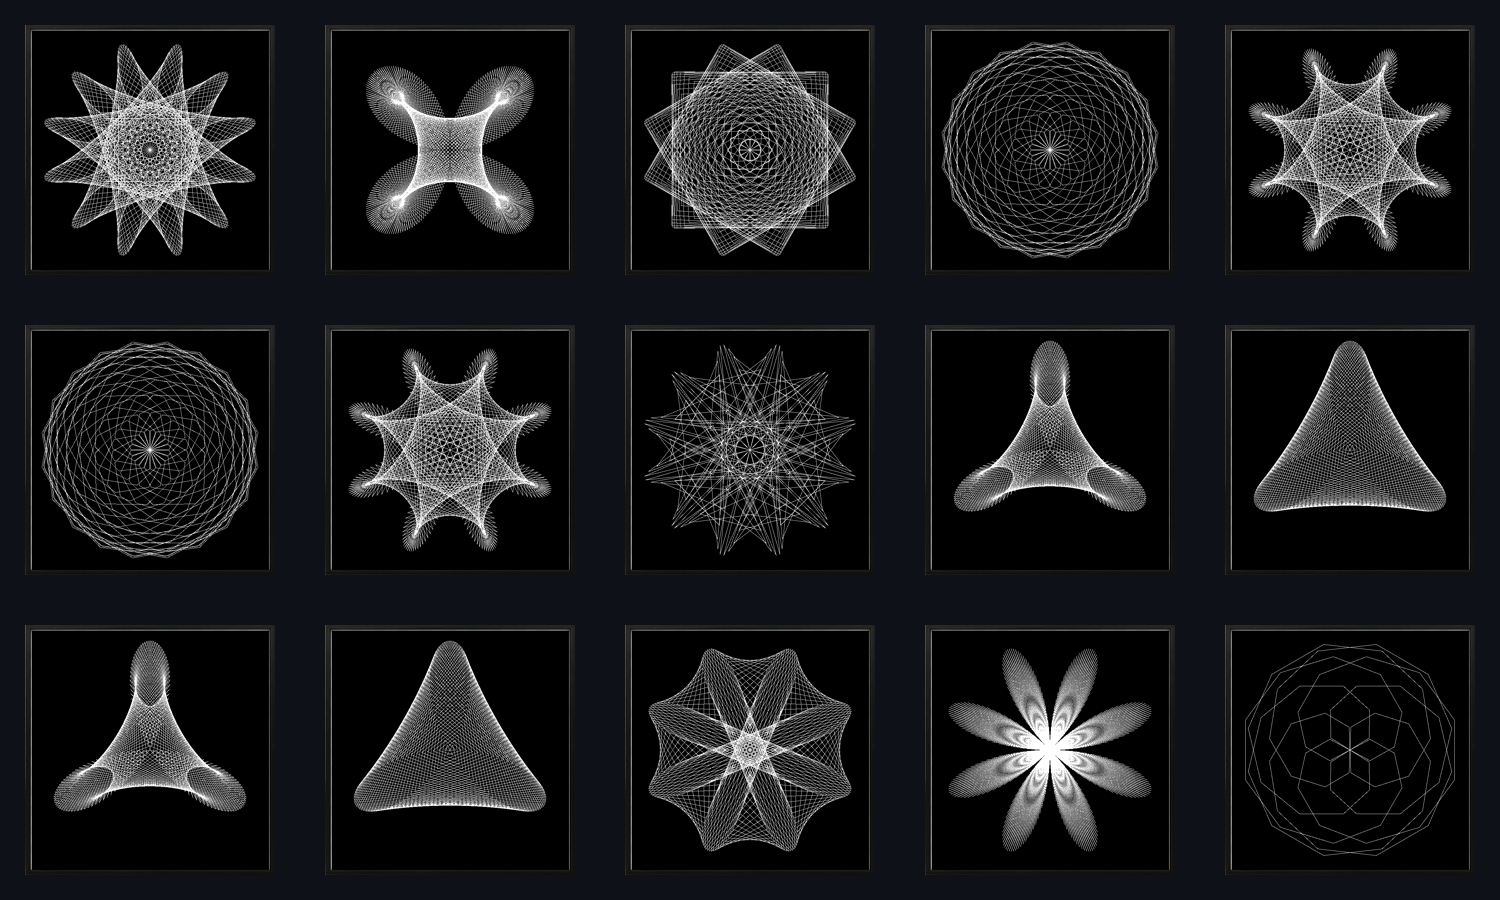
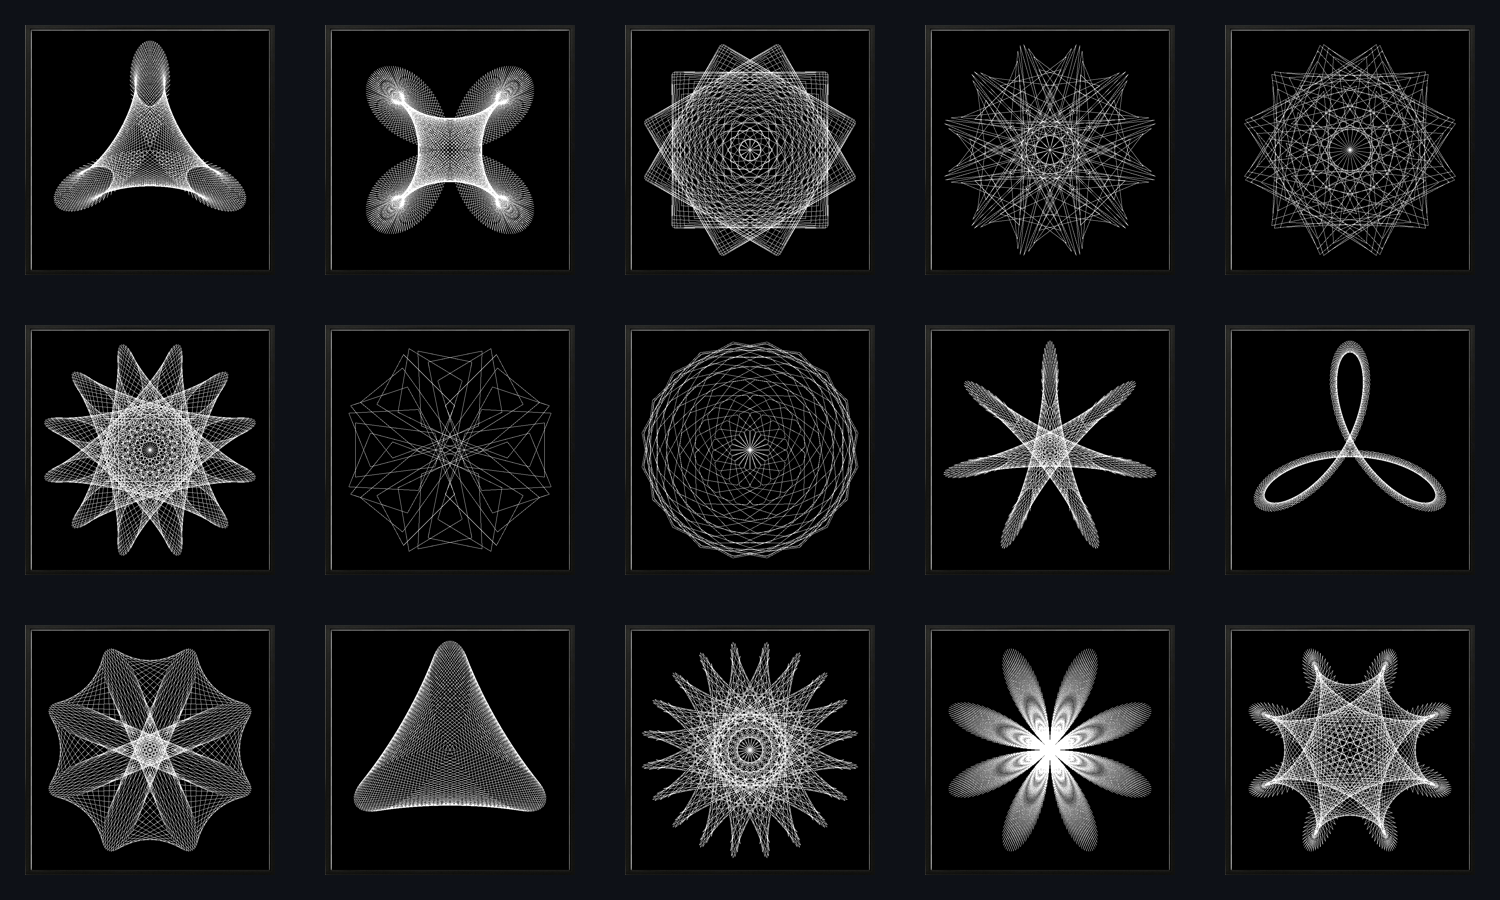
- maurer gallery fix

diff --git a/src/gallery/gallery.py b/src/gallery/gallery.py
@@ -3,6 +3,9 @@ from typing import List
 from p5 import *
 
 github_bg_color = (14, 17, 23)  # "#0E1117"
+global rows, cols
+rows = 3
+cols = 5
 
 
 class Frame():
@@ -27,13 +30,13 @@ class FrameWall():
 
     def __init__(self, frames_imgs):
         self.frames = []
-        self.rows = 3
-        self.cols = ceil(len(frames_imgs)/self.rows)
+        self.rows = rows
+        self.cols = cols
         self.width = 300
 
         for y in range(self.rows):
             for x in range(self.cols):
-                index = y*self.rows + x
+                index = y*self.cols + x
                 if index >= len(frames_imgs):
                     break
                 self.frames.append(Frame(img=frames_imgs[index],
@@ -58,10 +61,12 @@ def load_frame_imgs(folder_path: str) -> List(PImage):
 
 
 def setup():
-    size(1500, 900)
+    size(cols*300, rows*300)
     no_loop()
     global wall
-    frame_imgs = load_frame_imgs('../../media/maurer_rose/single_files')[:15]
+    path = '../../media/maurer_rose/single_files'
+    # path = "/Users/marcelrosier/Projects/personal/p5_projects/src/lissajou"
+    frame_imgs = load_frame_imgs(path)[:(rows*cols)]
     wall = FrameWall(frame_imgs)
 
 
